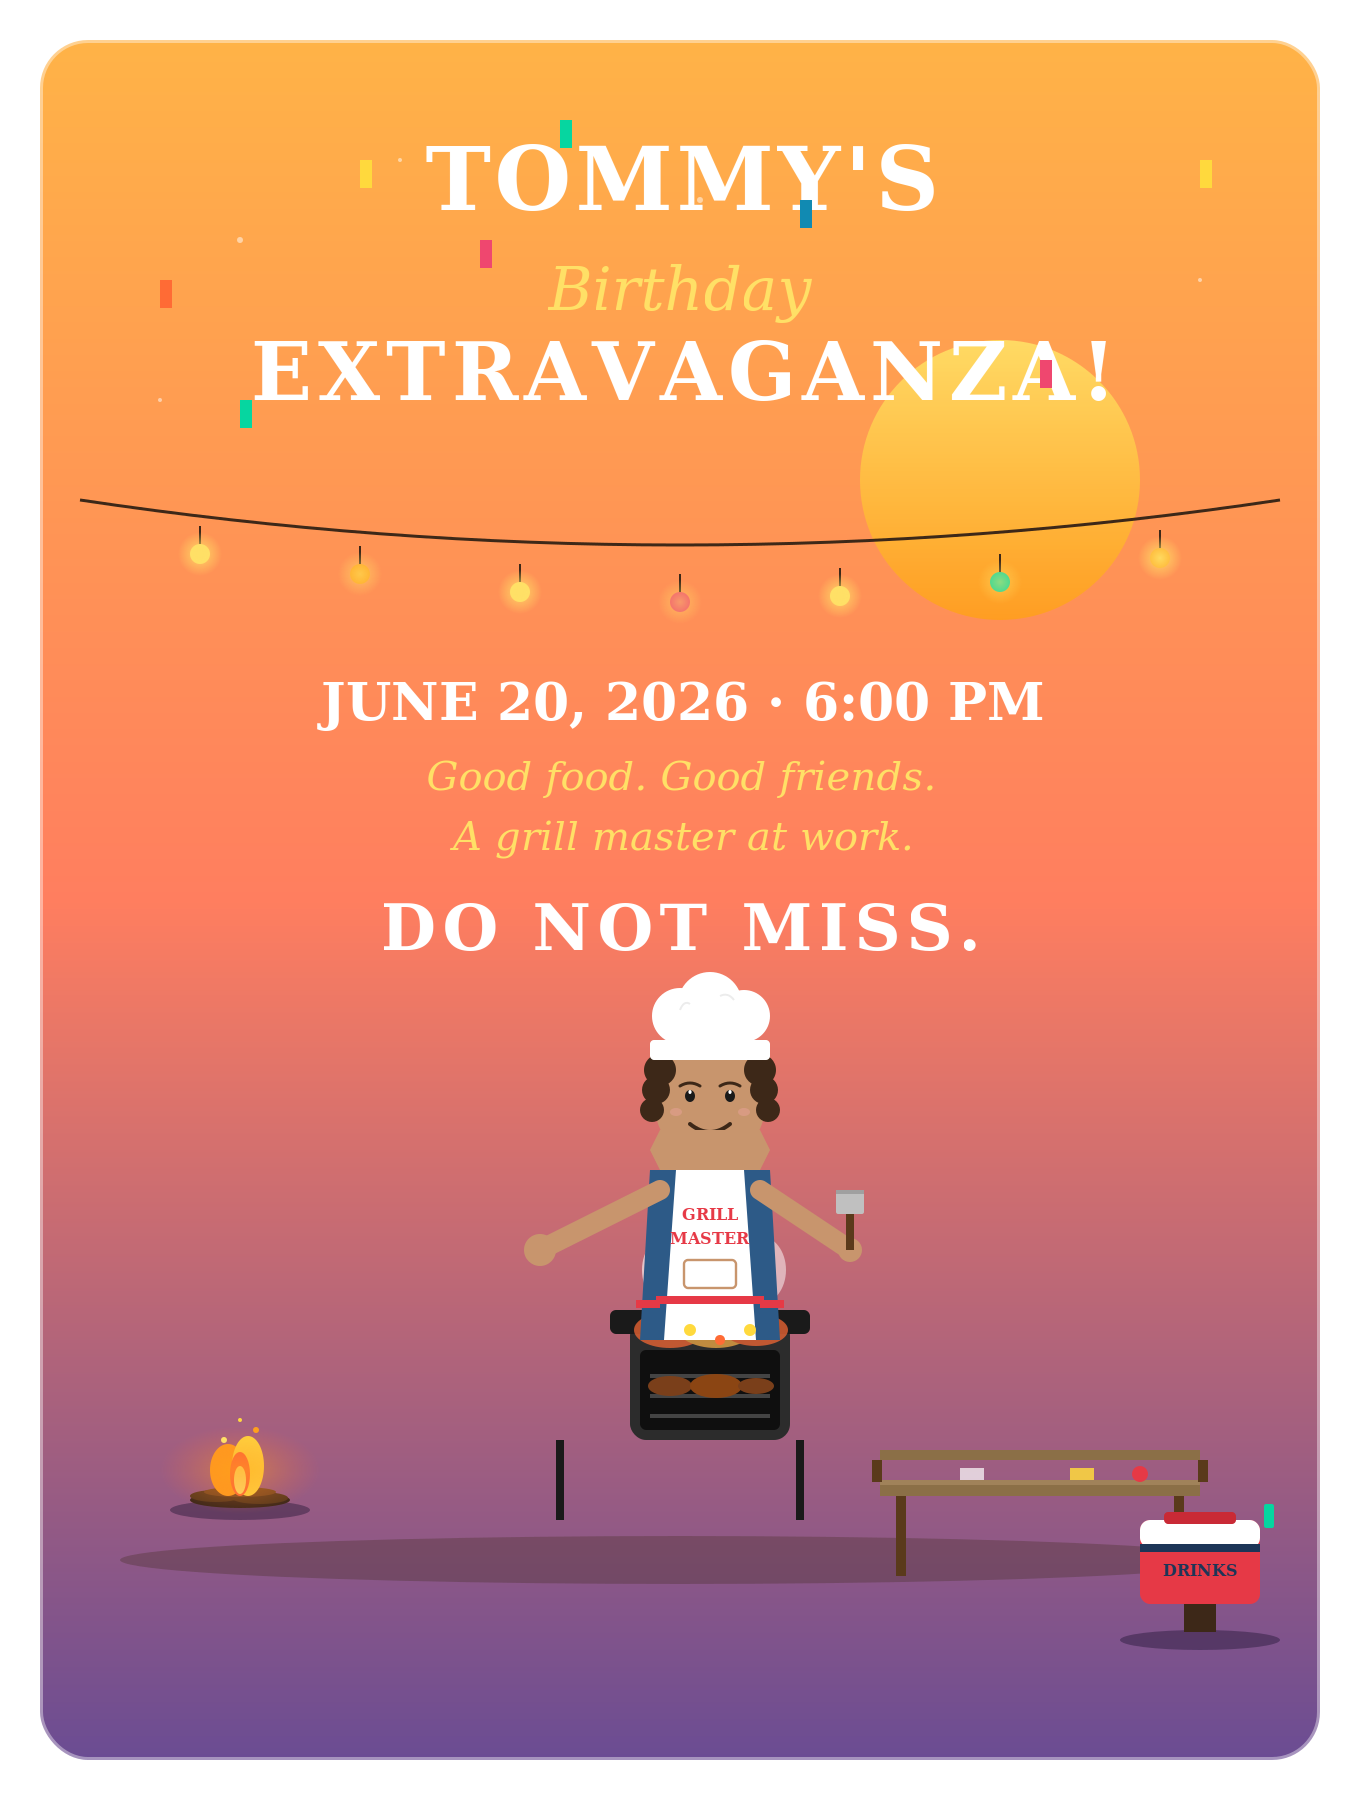
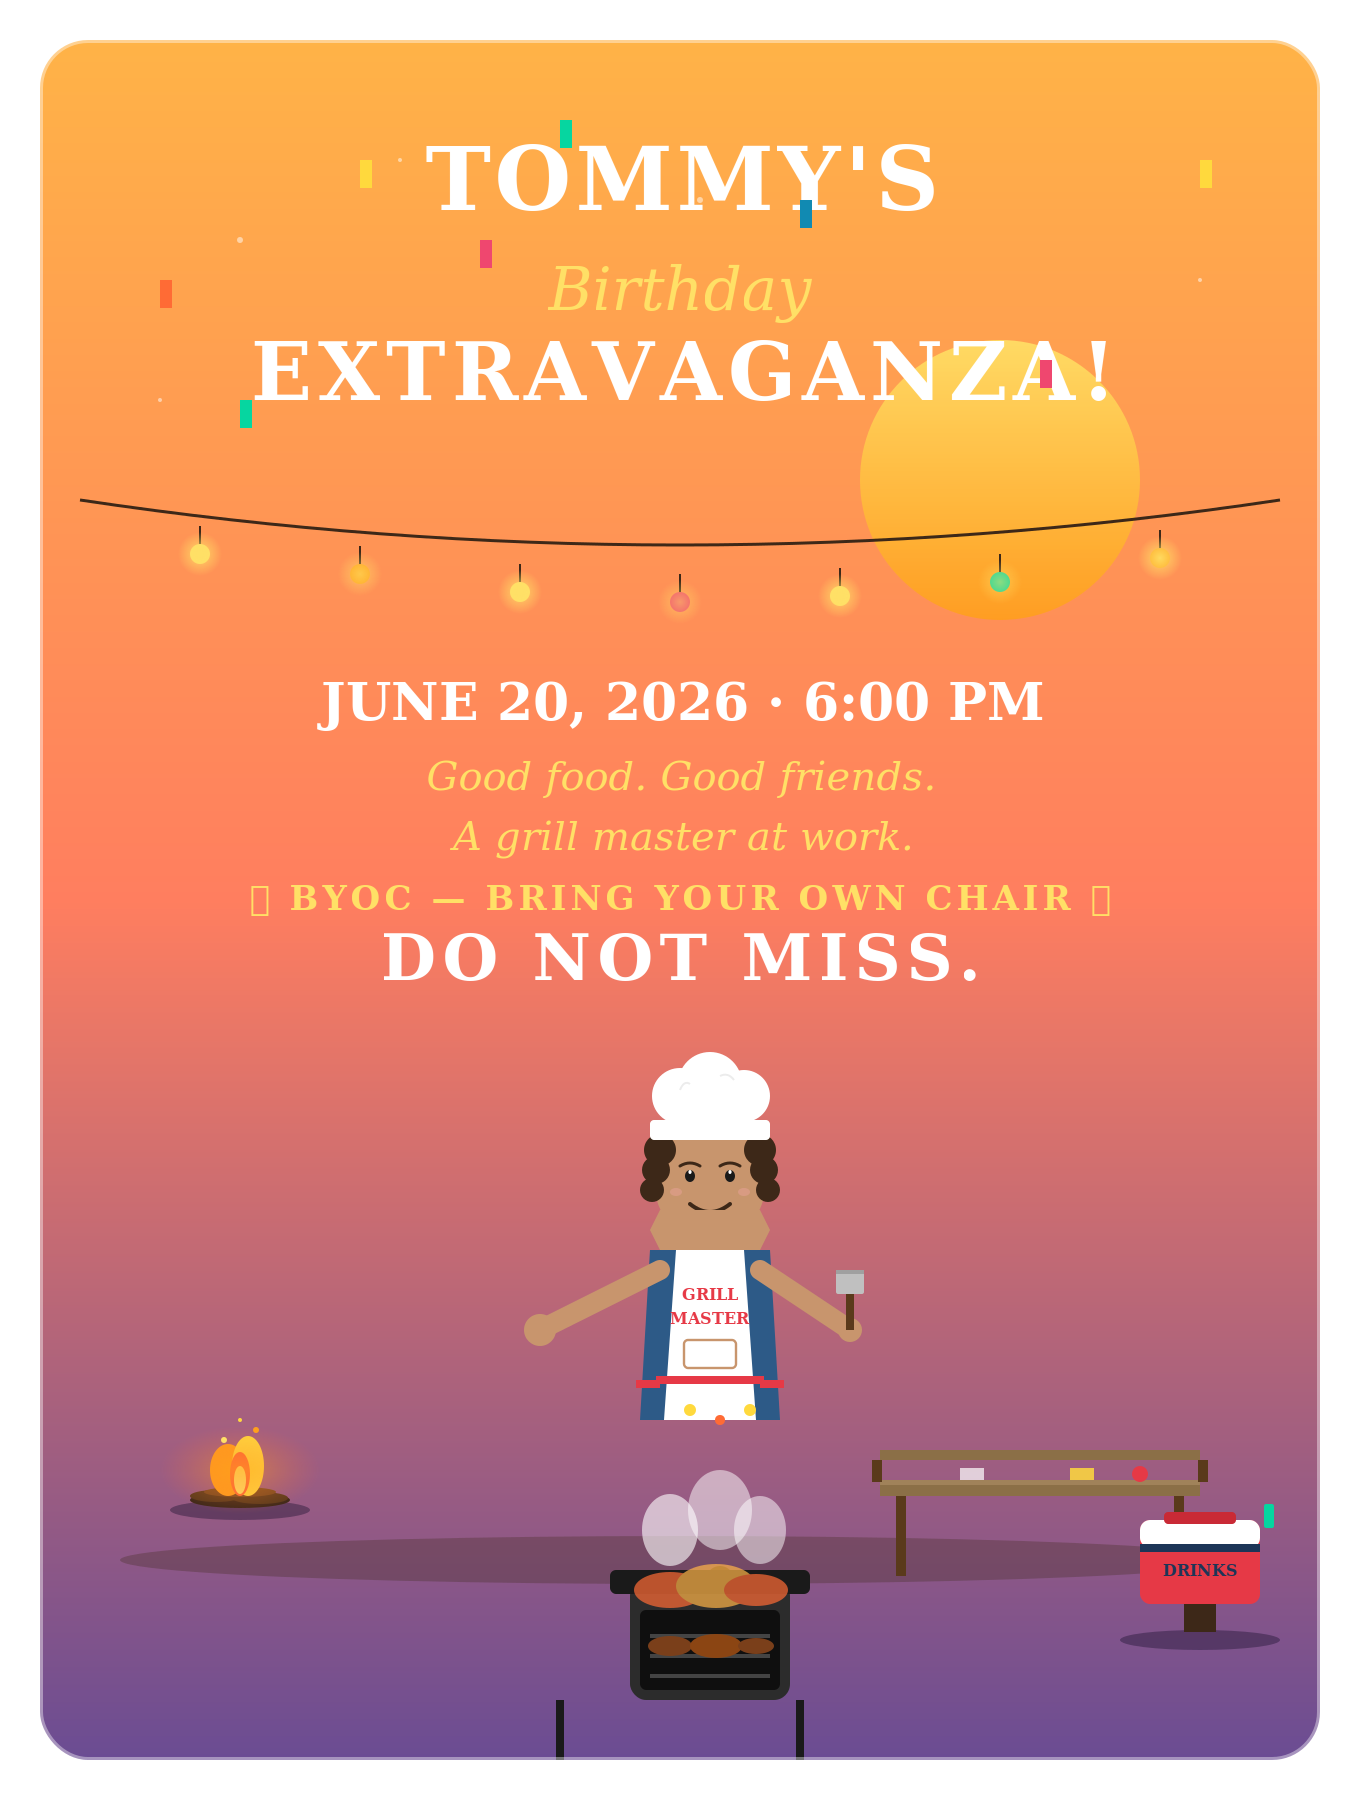
Update birthday invite to v2

Changed region(s): [[0.2162, 0.4667, 0.7721, 0.9644], [0.4015, 0.9333, 0.4324, 0.9644], [0.4015, 0.8089, 0.4324, 0.84]]

diff --git a/index.html b/index.html
@@ -3,10 +3,10 @@
 <head>
 <meta charset="UTF-8">
 <meta name="viewport" content="width=device-width, initial-scale=1.0">
-<title>Tommy's Birthday Extravaganza · June 17, 2026</title>
-<meta name="description" content="You're invited! Tommy's Birthday Extravaganza, June 17, 2026 at 6:00 PM. Cookout, campfire, good times.">
+<title>Tommy's Birthday Extravaganza · June 20, 2026</title>
+<meta name="description" content="You're invited! Tommy's Birthday Extravaganza, June 20, 2026 at 6:00 PM. Cookout, campfire, good times.">
 <meta property="og:title" content="Tommy's Birthday Extravaganza">
-<meta property="og:description" content="June 17, 2026 · 6:00 PM · Do not miss.">
+<meta property="og:description" content="June 20, 2026 · 6:00 PM · Do not miss.">
 <meta property="og:type" content="website">
 <style>
   * { box-sizing: border-box; }
@@ -207,14 +207,61 @@
 <text x="340" y="360" text-anchor="middle" font-size="26" font-weight="700" fill="#FFFFFF">JUNE 20, 2026 · 6:00 PM</text>
 <text x="340" y="395" text-anchor="middle" font-size="20" font-weight="500" fill="#FFE066" font-style="italic">Good food. Good friends.</text>
 <text x="340" y="425" text-anchor="middle" font-size="20" font-weight="500" fill="#FFE066" font-style="italic">A grill master at work.</text>
-<text x="340" y="475" text-anchor="middle" font-size="32" font-weight="700" fill="#FFFFFF" letter-spacing="3">
+<text x="340" y="455" text-anchor="middle" font-size="17" font-weight="700" fill="#FFE066" letter-spacing="2">🪑 BYOC — BRING YOUR OWN CHAIR 🪑</text>
+<text x="340" y="490" text-anchor="middle" font-size="32" font-weight="700" fill="#FFFFFF" letter-spacing="3">
 DO NOT MISS.
 <animate attributeName="opacity" values="1;0.7;1" dur="1.8s" repeatCount="indefinite"/>
 </text>
 </g>
 
+<!-- Grassy field -->
+<rect x="20" y="750" width="640" height="130" fill="#2E5C1E"/>
+<rect x="20" y="750" width="640" height="18" fill="#3A7A28"/>
+
+<!-- Grass blades scattered -->
+<g fill="#4A9A32">
+<polygon points="35,750 38,730 41,750"/>
+<polygon points="55,750 58,726 61,750"/>
+<polygon points="75,750 77,734 80,750"/>
+<polygon points="95,750 98,728 101,750"/>
+<polygon points="115,750 118,732 121,750"/>
+<polygon points="140,750 143,725 146,750"/>
+<polygon points="165,750 168,733 171,750"/>
+<polygon points="190,750 193,729 196,750"/>
+<polygon points="215,750 218,735 221,750"/>
+<polygon points="245,750 248,727 251,750"/>
+<polygon points="275,750 278,731 281,750"/>
+<polygon points="310,750 313,726 316,750"/>
+<polygon points="345,750 348,733 351,750"/>
+<polygon points="380,750 383,728 386,750"/>
+<polygon points="415,750 418,732 421,750"/>
+<polygon points="448,750 451,727 454,750"/>
+<polygon points="478,750 481,734 484,750"/>
+<polygon points="505,750 508,729 511,750"/>
+<polygon points="528,750 531,731 534,750"/>
+<polygon points="552,750 555,726 558,750"/>
+<polygon points="575,750 578,733 581,750"/>
+<polygon points="598,750 601,728 604,750"/>
+<polygon points="618,750 621,735 624,750"/>
+<polygon points="638,750 641,730 644,750"/>
+</g>
+<!-- Slightly darker shorter blades for depth -->
+<g fill="#3D8522" opacity="0.7">
+<polygon points="45,750 47,738 50,750"/>
+<polygon points="85,750 87,740 90,750"/>
+<polygon points="130,750 132,736 135,750"/>
+<polygon points="200,750 202,741 205,750"/>
+<polygon points="260,750 262,738 265,750"/>
+<polygon points="330,750 332,742 335,750"/>
+<polygon points="395,750 397,737 400,750"/>
+<polygon points="460,750 462,740 465,750"/>
+<polygon points="520,750 522,736 525,750"/>
+<polygon points="585,750 587,741 590,750"/>
+<polygon points="630,750 632,738 635,750"/>
+</g>
+
 <!-- Ground shadow -->
-<ellipse cx="340" cy="780" rx="280" ry="12" fill="#3D2818" opacity="0.3"/>
+<ellipse cx="340" cy="755" rx="280" ry="10" fill="#1E3D10" opacity="0.3"/>
 
 <!-- Campfire (background, left) -->
 <g transform="translate(80, 700)">
@@ -296,7 +343,7 @@ DO NOT MISS.
 </g>
 
 <!-- Grill -->
-<g transform="translate(280, 540)">
+<g transform="translate(280, 670)">
 <line x1="50" y1="170" x2="80" y2="120" stroke="#3D2818" stroke-width="14" stroke-linecap="round"/>
 <rect x="35" y="120" width="80" height="60" rx="8" fill="#2C2C2C"/>
 <rect x="25" y="115" width="100" height="12" rx="3" fill="#1A1A1A"/>
@@ -354,7 +401,7 @@ DO NOT MISS.
 </g>
 
 <!-- Tommy character -->
-<g transform="translate(280, 470)">
+<g transform="translate(280, 510)">
 
 <!-- Body / shirt (dark T behind apron) -->
 <path d="M 45 115 L 105 115 L 110 200 L 40 200 Z" fill="#2D5A87"/>
@@ -522,7 +569,7 @@ DO NOT MISS.
 
 <!-- RSVP button -->
 <div class="rsvp-section">
-  <a href="sms:+17432610294?&body=Yo%20Tommy!%20I'm%20in%20for%20your%20birthday%20June%2017th%20%F0%9F%94%A5" class="rsvp-btn">
+  <a href="sms:+17432610294?&body=Yo%20Tommy!%20I'm%20in%20for%20your%20birthday%20June%2020th%20%F0%9F%94%A5" class="rsvp-btn">
     RSVP NOW
   </a>
   <div class="rsvp-sub">Tap to text Tommy</div>
